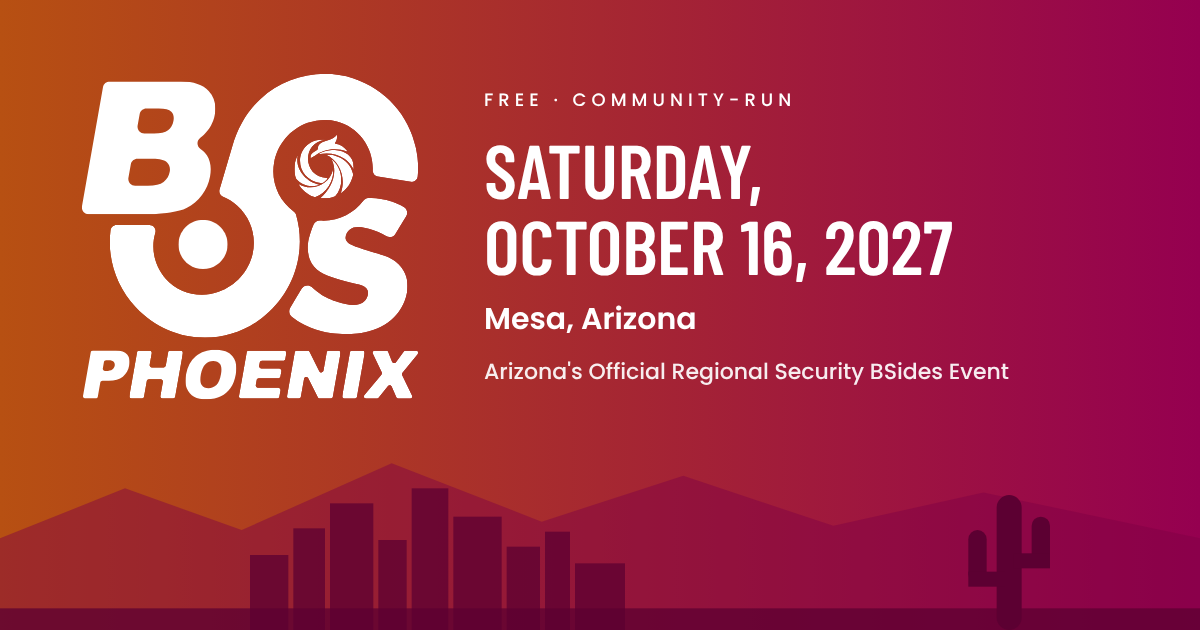
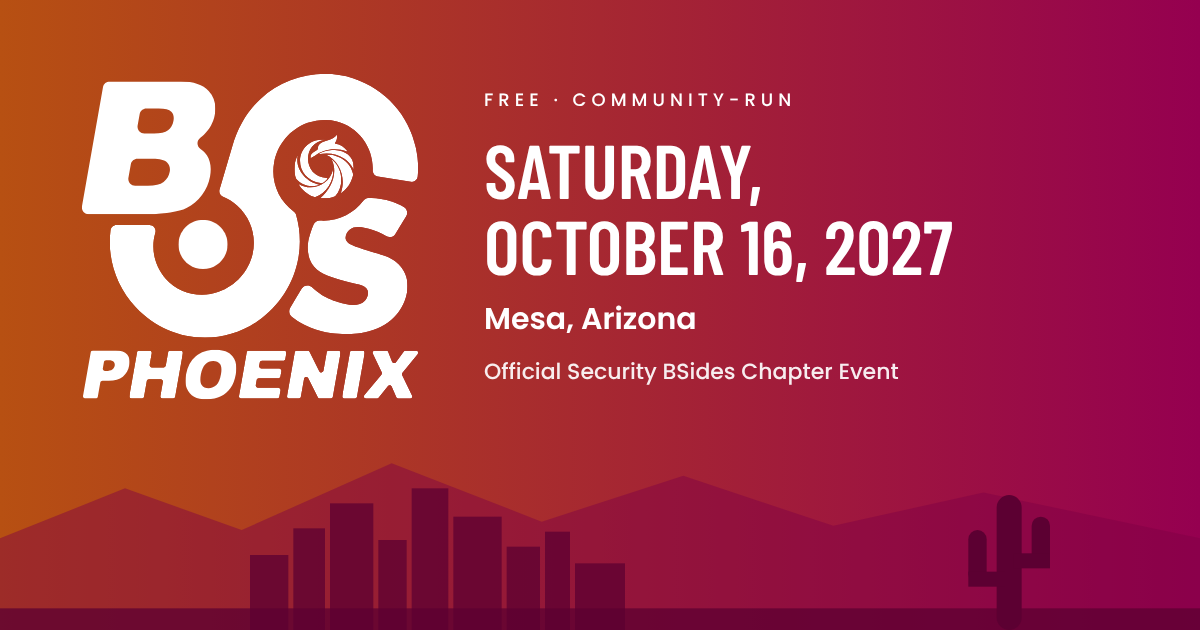
Use "Official Security BSides Chapter Event" in hero and preview image
Claude-Session: https://claude.ai/code/session_01GSSiH11xuQGmizsvmGev25

Changed region(s): [[0.4008, 0.573, 0.8633, 0.6032]]

diff --git a/index.html b/index.html
@@ -80,7 +80,7 @@ html{scroll-behavior:smooth}
 <div style="position: relative; max-width: 1200px; margin: 0 auto; padding: 72px 24px 280px; display: flex; flex-direction: column; align-items: flex-start; gap: 32px">
 <img src="assets/logo/bsides-phoenix-horizontal-white.svg" alt="BSides Phoenix" width="360" height="125" style="display: block; width: 360px; max-width: 100%; height: auto">
 <div style="display: flex; flex-direction: column; gap: 16px; max-width: 760px">
-<p style="margin: 0; font-size: 14px; line-height: 1.2; font-weight: 500; letter-spacing: 0.3em; text-transform: uppercase">A free, community-run security conference</p>
+<p style="margin: 0; font-size: 14px; line-height: 1.2; font-weight: 500; letter-spacing: 0.3em; text-transform: uppercase">Official Security BSides Chapter Event</p>
 <h1 style="margin: 0; font-size: 56px; line-height: 1.05; font-weight: 700; letter-spacing: -0.01em">Arizona's security community, together for a day.</h1>
 <p style="margin: 0; font-family: 'Barlow Condensed', 'Arial Narrow', sans-serif; font-size: 24px; line-height: 1.1; font-weight: 600; text-transform: uppercase">Saturday, October 16, 2027 <span style="font-size: 18px; font-weight: 500">...it's about time!</span></p>
 </div>
